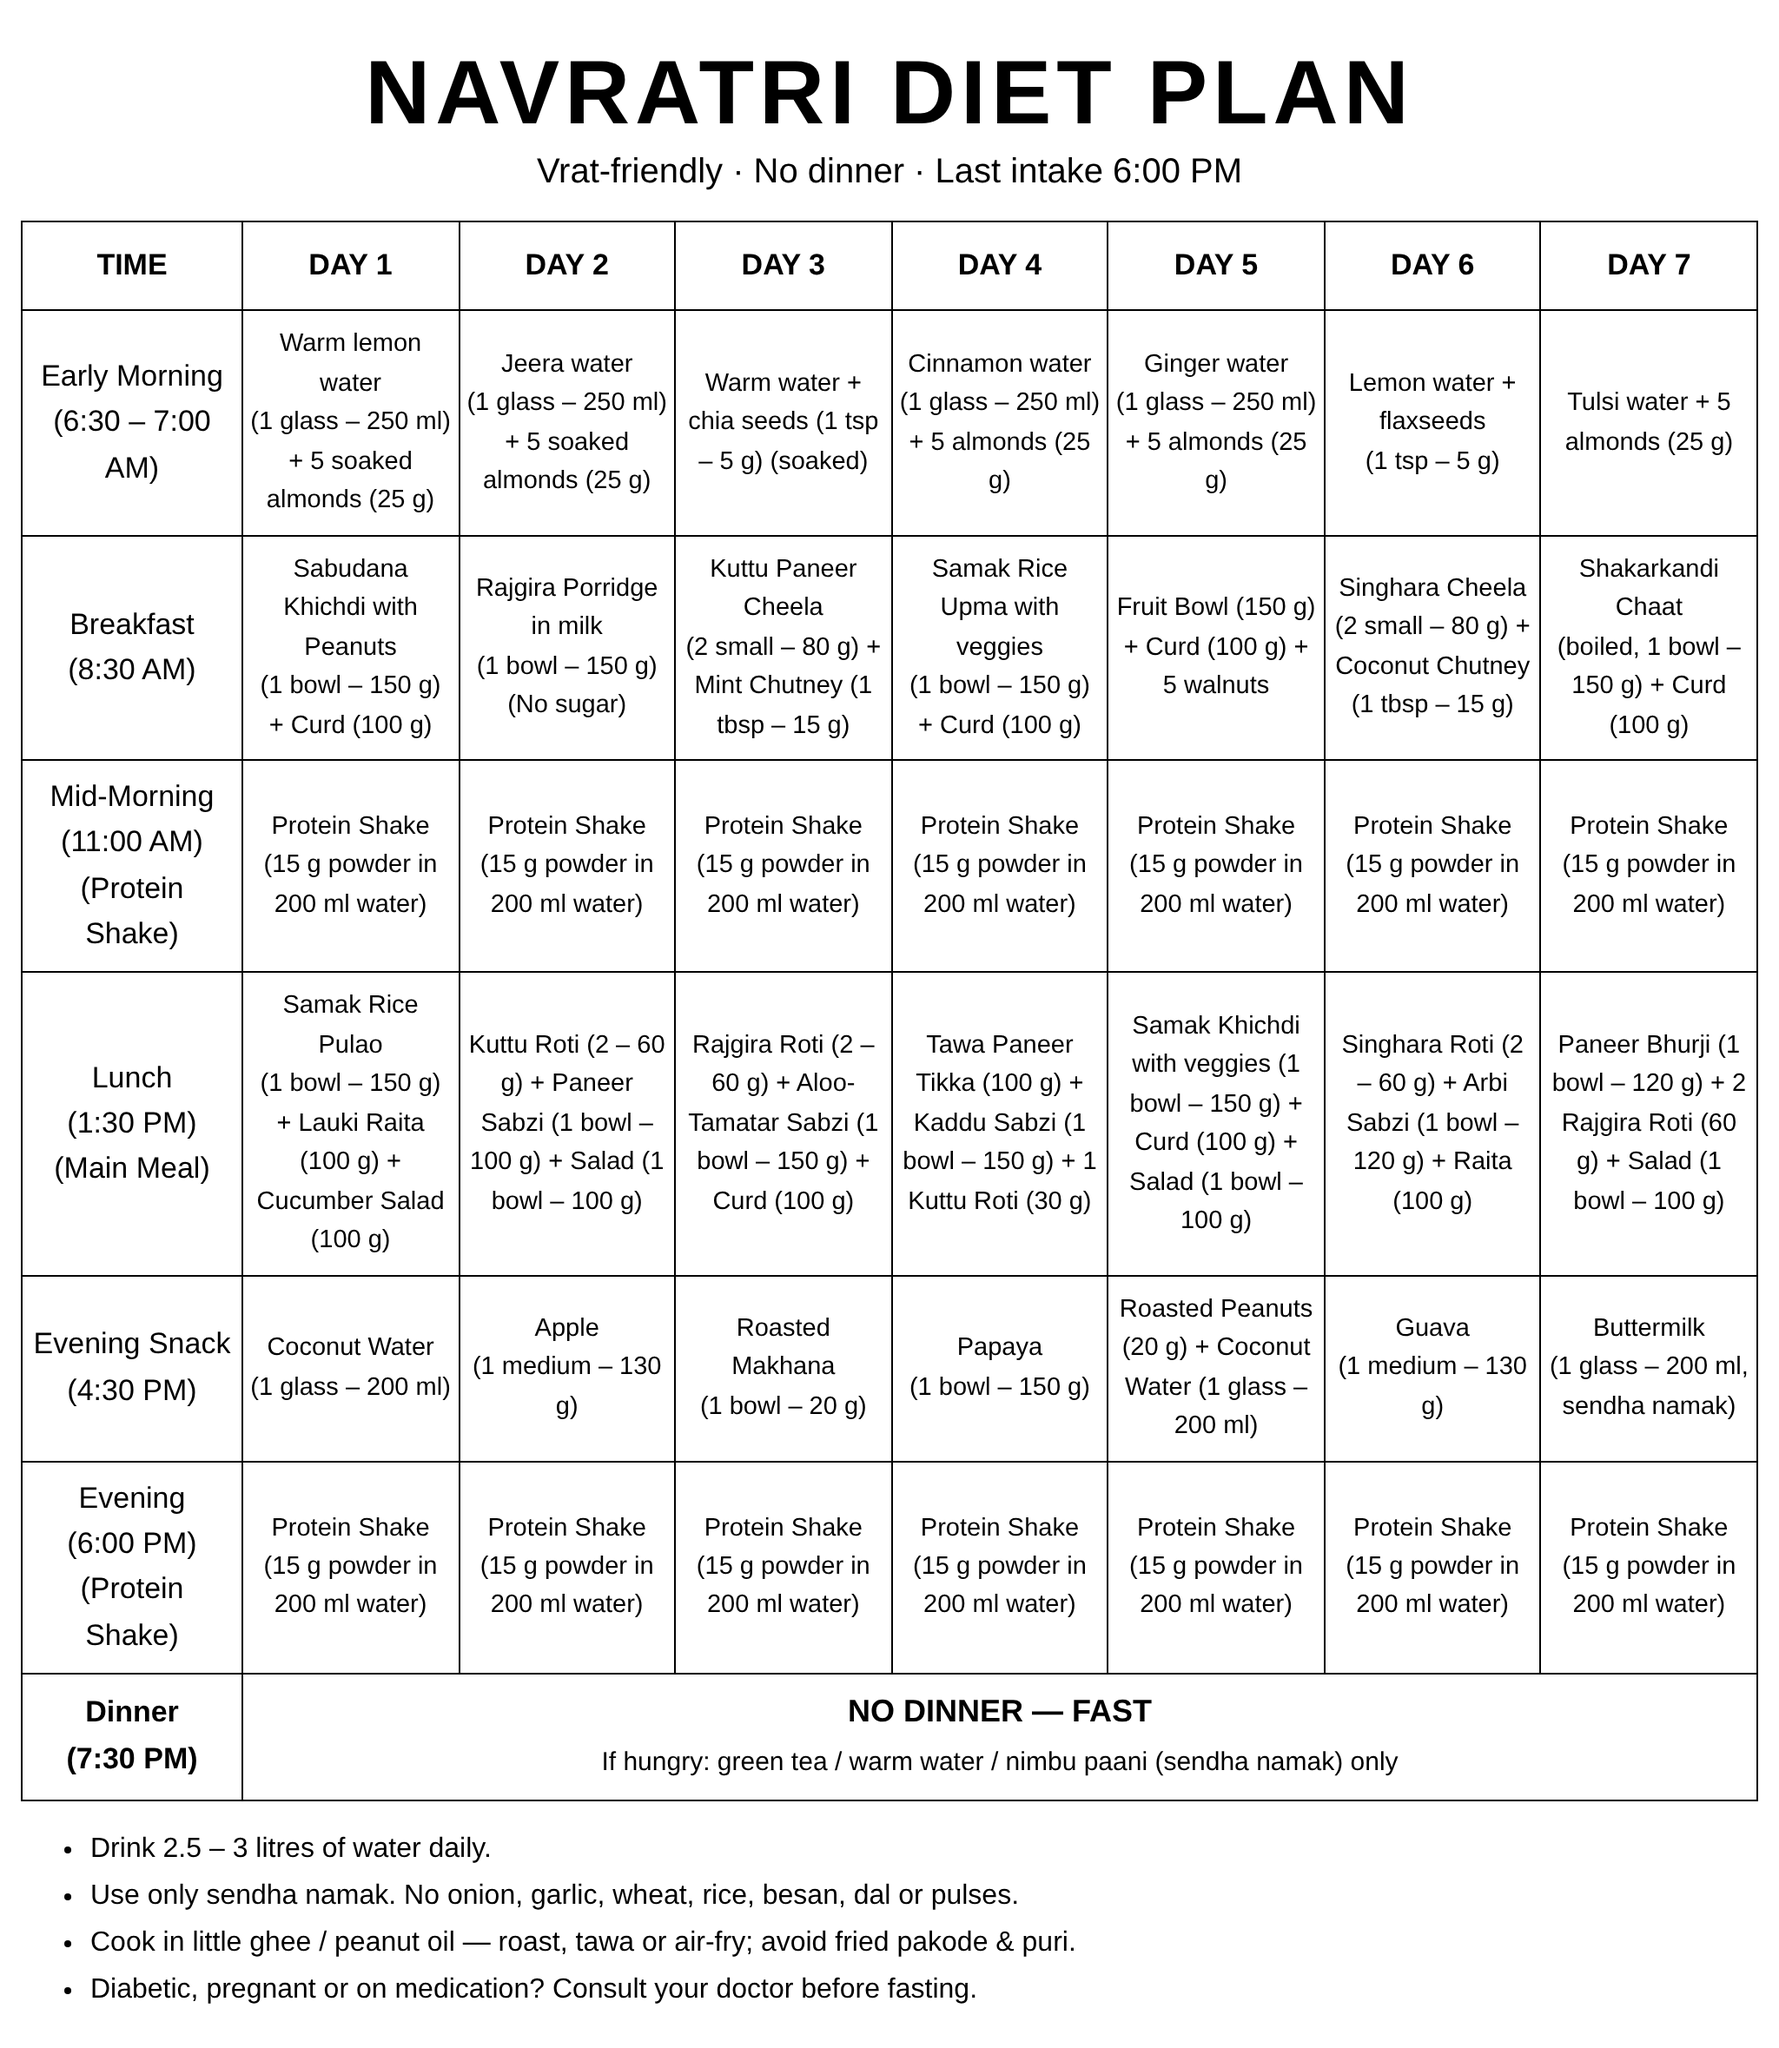
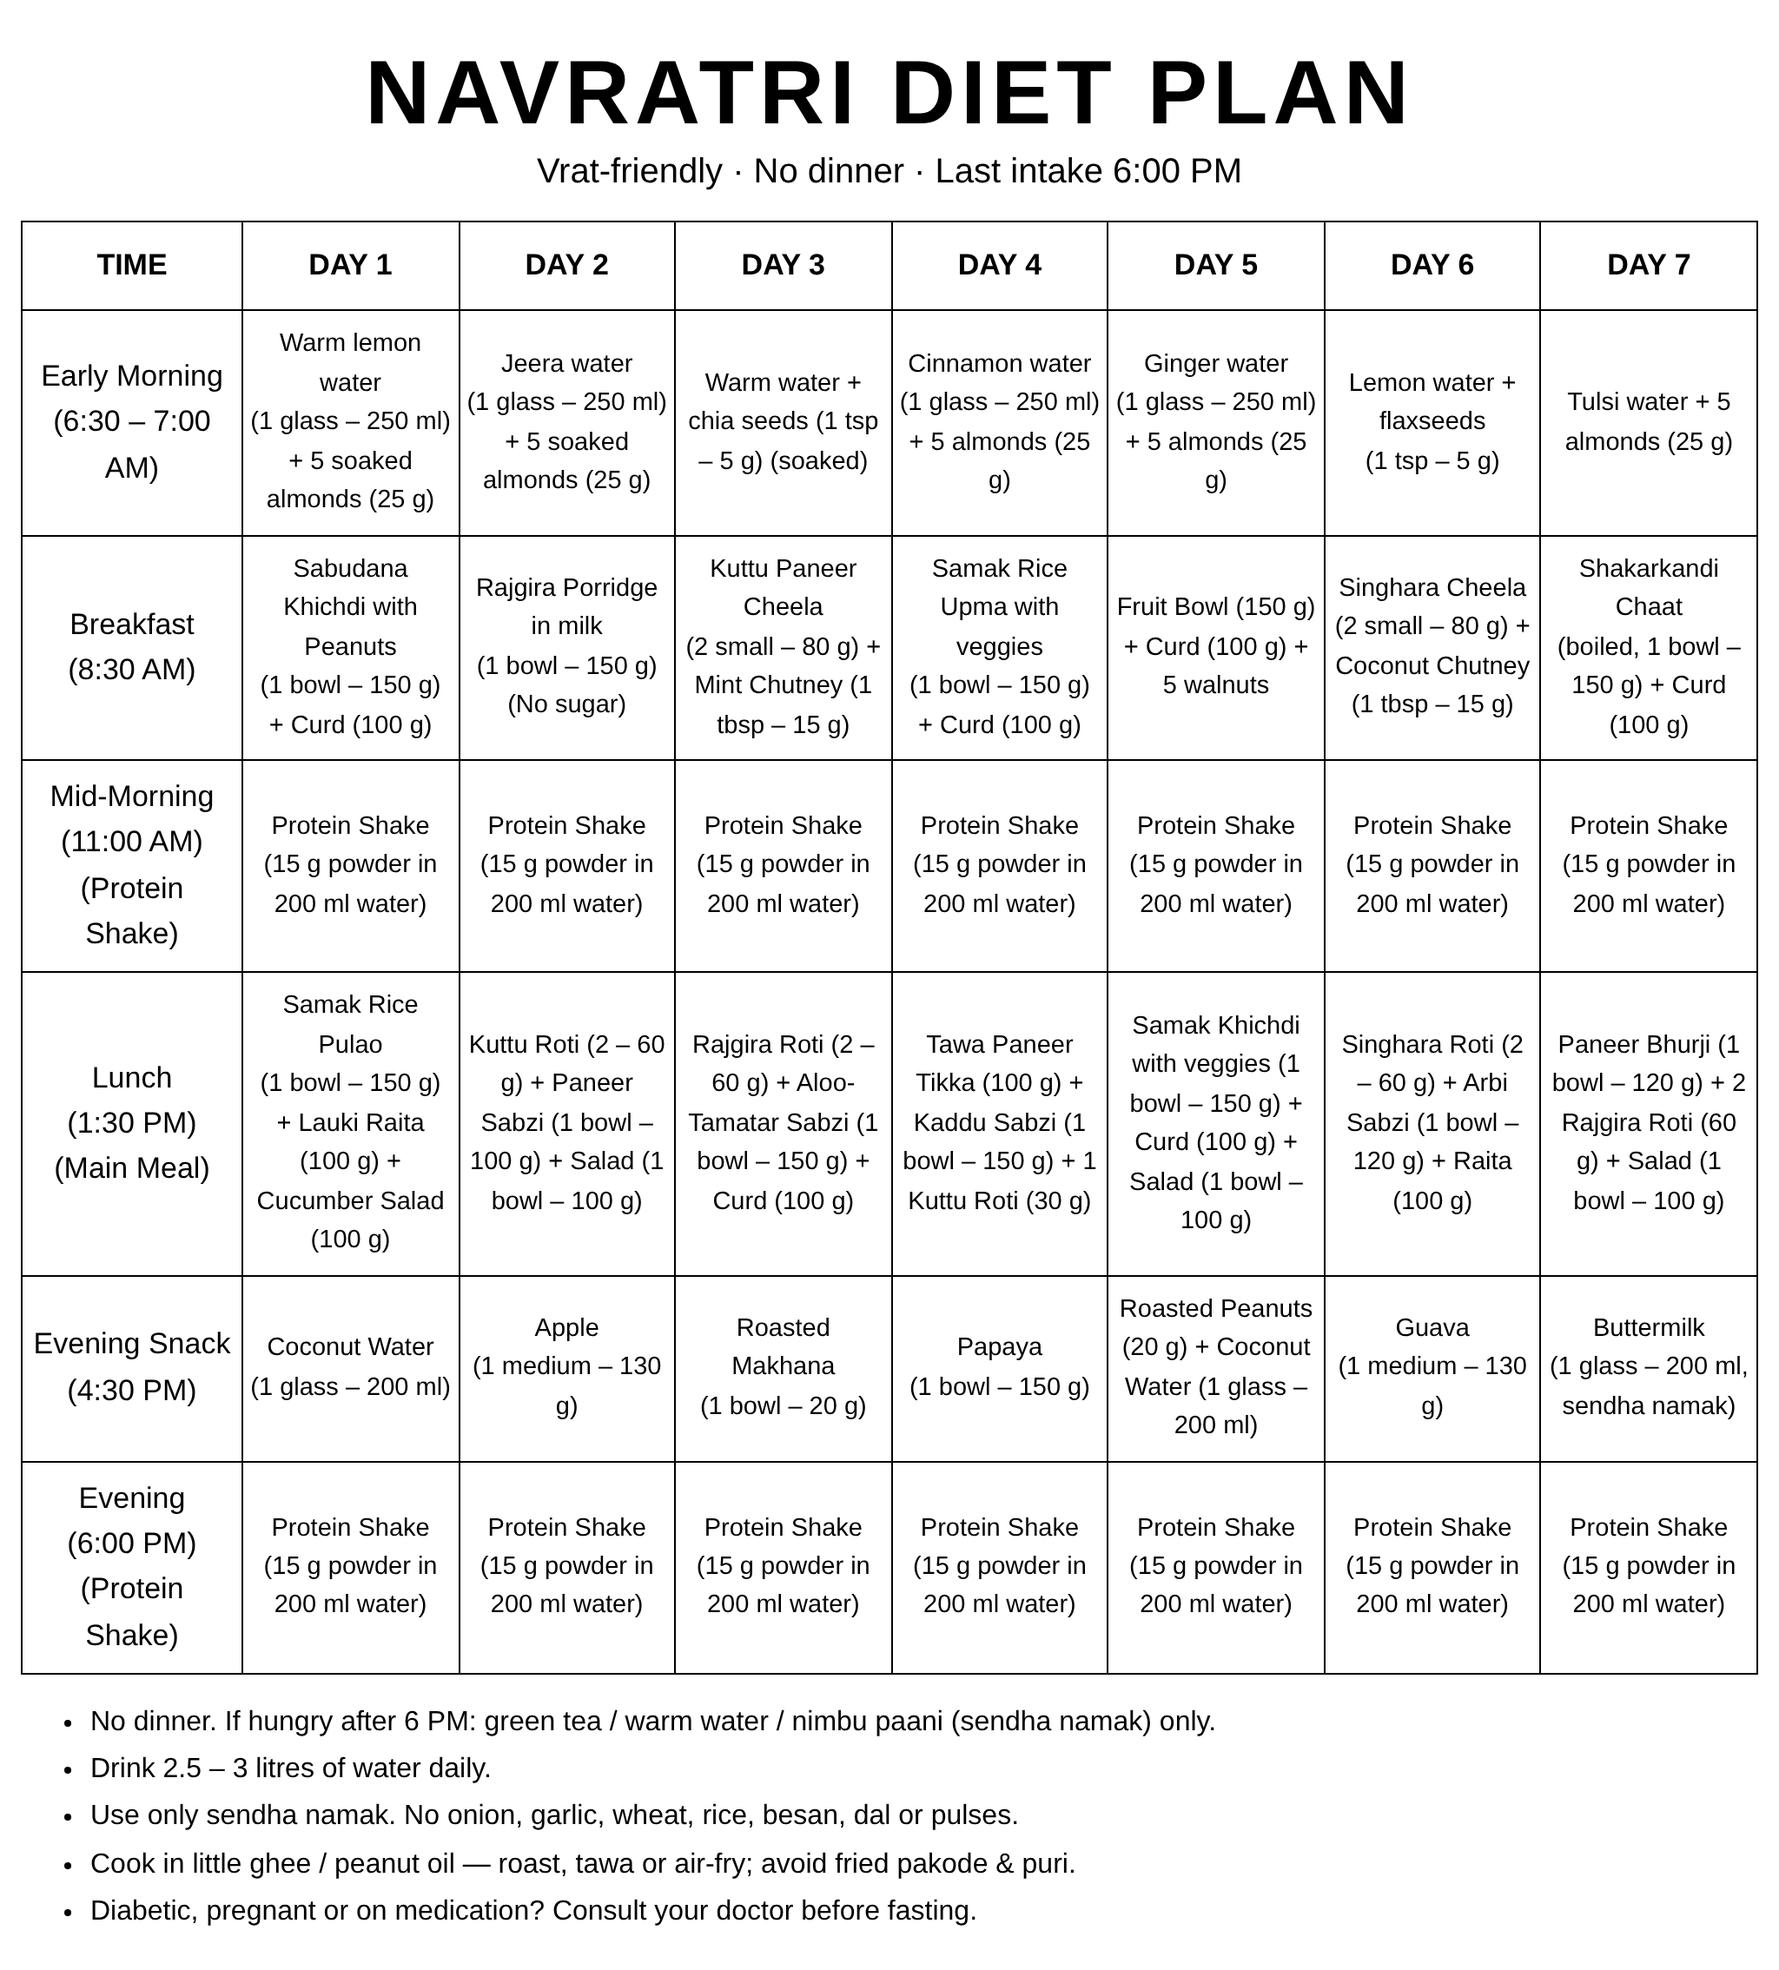
Navratri chart: remove dinner row, move no-dinner note to footer
Claude-Session: https://claude.ai/code/session_01Hb85QWsiyrBDrnGKrgDRLs

diff --git a/charts/navratri-diet-plan.html b/charts/navratri-diet-plan.html
@@ -61,10 +61,9 @@ ul{margin:14px 0 0 40px;padding:0;font-size:16px;line-height:1.7}
 <tr><td>Evening<br>(6:00 PM)<br>(Protein Shake)</td>
 <td>Protein Shake<br>(15 g powder in 200 ml water)</td><td>Protein Shake<br>(15 g powder in 200 ml water)</td><td>Protein Shake<br>(15 g powder in 200 ml water)</td><td>Protein Shake<br>(15 g powder in 200 ml water)</td><td>Protein Shake<br>(15 g powder in 200 ml water)</td><td>Protein Shake<br>(15 g powder in 200 ml water)</td><td>Protein Shake<br>(15 g powder in 200 ml water)</td></tr>
 
-<tr class="skip"><td>Dinner<br>(7:30 PM)</td>
-<td class="x" colspan="7">NO DINNER — FAST<br><span style="font-weight:normal;font-size:15px">If hungry: green tea / warm water / nimbu paani (sendha namak) only</span></td></tr>
 </table>
 <ul>
+<li>No dinner. If hungry after 6 PM: green tea / warm water / nimbu paani (sendha namak) only.</li>
 <li>Drink 2.5 – 3 litres of water daily.</li>
 <li>Use only sendha namak. No onion, garlic, wheat, rice, besan, dal or pulses.</li>
 <li>Cook in little ghee / peanut oil — roast, tawa or air-fry; avoid fried pakode &amp; puri.</li>
